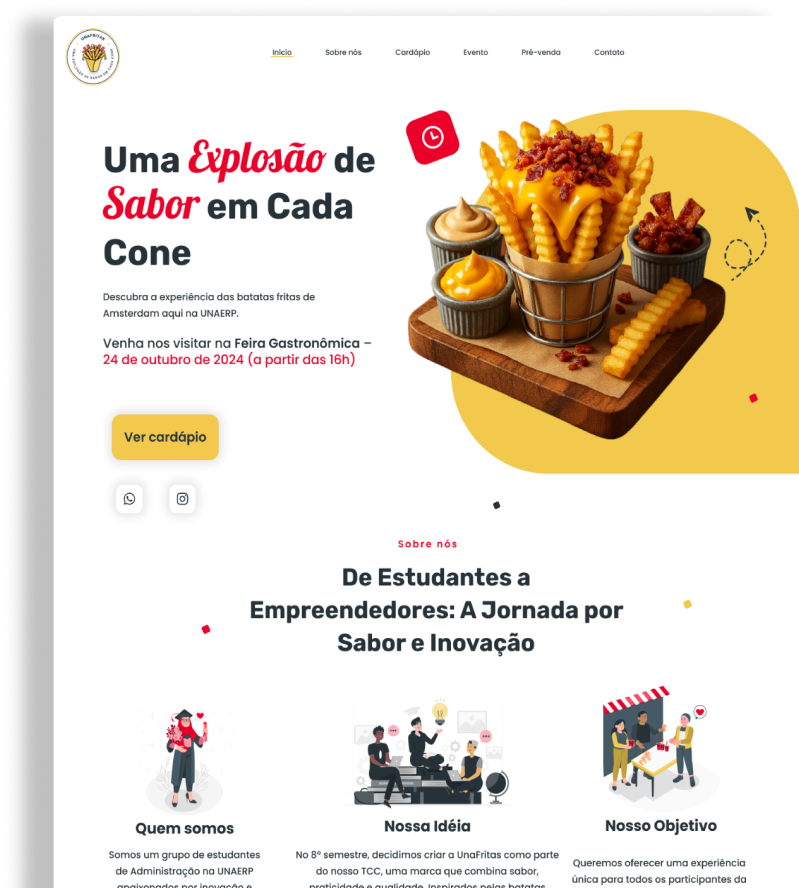
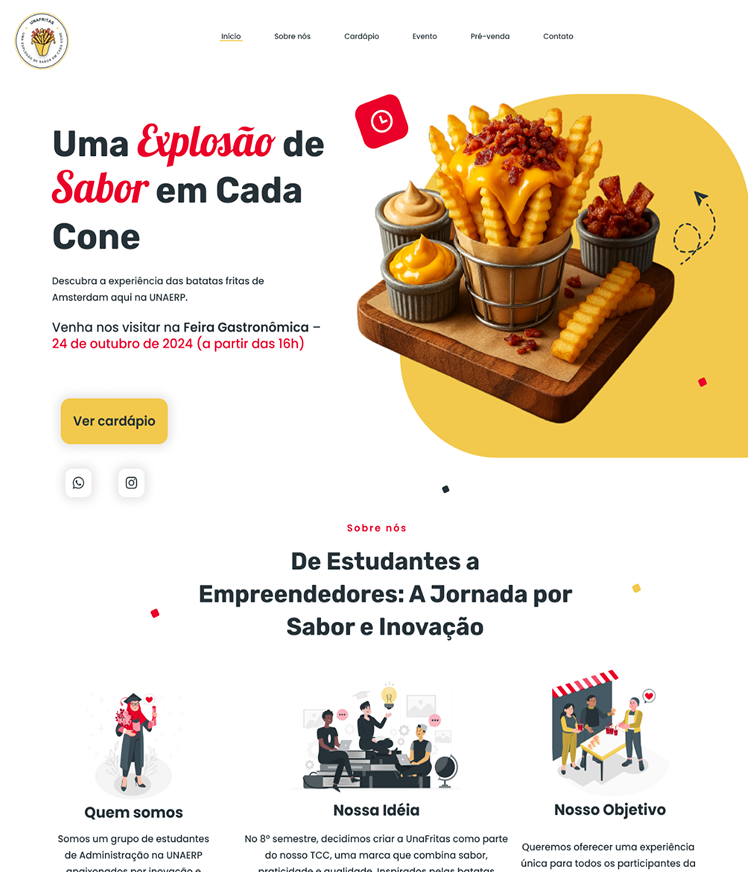
feat: Atualizar estrutura e estilos dos cards de projetos, incluindo novas imagens e ajustes de responsividade

diff --git a/index.html b/index.html
@@ -233,33 +233,80 @@
                     Aqui estão alguns dos meus projetos mais recentes, onde busco unir estética, funcionalidade e acessibilidade para criar experiências digitais que realmente façam a diferença.
                 </p>
             </div>
+
             <div class="container-cards">
-                <img class="detalhe" src="./src/assets/images/Color-unaFritas.png" alt="Imagem de detalhe">
-                <div class="conteudo-card">
-                    <img src="./src/assets/images/logo-unaFritas.png" alt="Imagem da logo do projeto unaFritas">
-                    <h2><span>Landing Page</span> Web UI Design</h2>
-                    <p class="descricao-card">
-                        Landing page desenvolvida como parte do Trabalho de Conclusão de Curso (TCC) dos alunos do 8º semestre de Administração da Universidade de Ribeirão Preto (UNAERP). A proposta apresenta a marca UnaFritas, inspirada nas tradicionais batatas no cone de Amsterdam, e tem como objetivo divulgar a participação do grupo na Feira Gastronômica da UNAERP.
-                    </p>
-                    <div class="buttons-info">
-                        <a href="https://developer.mozilla.org/pt-BR/docs/Web/HTML" target="_blank" rel="noopener" aria-label="Abrir site do HTML">
-                            <i class="fa-brands fa-html5"></i>
-                            <p>HTML5</p>
-                        </a>
-                        <a href="https://developer.mozilla.org/pt-BR/docs/Web/CSS" target="_blank" rel="noopener" aria-label="Abrir site do CSS">
-                            <i class="fa-brands fa-css3-alt"></i>
-                            <p>CSS3</p>
-                        </a>
-                        <a href="https://developer.mozilla.org/pt-BR/docs/Web/JavaScript" target="_blank" rel="noopener" aria-label="Abrir site do JavaScript">
-                            <i class="fa-brands fa-js"></i>
-                            <p>JavaScript</p>
-                        </a>
-                    </div>
+                <div class="card">
+                <div class="image-card">
+                    <img src="./src/assets/images/img-projeto-unaFritas.png" alt="Imagem do site">
                 </div>
-                <img class="imagem-card" src="./src/assets/images/img-projeto-unaFritas.png" alt="Imagem do projeto unaFritas">
+                <div class="languages">
+                    <a href="https://developer.mozilla.org/pt-BR/docs/Web/HTML" target="_blank" rel="noopener" aria-label="Abrir site do HTML">
+                        <i class="fa-brands fa-html5"></i>
+                        <p>HTML5</p>
+                    </a>
+                    <a href="https://developer.mozilla.org/pt-BR/docs/Web/CSS" target="_blank" rel="noopener" aria-label="Abrir site do CSS">
+                        <i class="fa-brands fa-css3-alt"></i>
+                        <p>CSS3</p>
+                    </a>
+                    <a href="https://developer.mozilla.org/pt-BR/docs/Web/JavaScript" target="_blank" rel="noopener" aria-label="Abrir site do JavaScript">
+                        <i class="fa-brands fa-js"></i>
+                        <p>JavaScript</p>
+                    </a>
+                </div>
+                <h2>Landing Page UnaFritas</h2>
+                <p>
+                    Landing page do TCC da UNAERP para divulgar a UnaFritas, marca inspirada nas batatas no cone de Amsterdam, na Feira Gastronômica.
+                </p>
+                
+                <div class="visitar">
+                    <a href="https://una-fritas.vercel.app/" target="_blank" rel="noopener" aria-label="Abrir site do projeto unaFritas">
+                        <i class="fa-solid fa-arrow-up-right-from-square"></i>
+                        <p>Visitar</p>
+                    </a>
+                </div>
             </div>
 
-            <!-- <div id="popup-content">
+            <div class="card">
+                <div class="image-card">
+                    <img src="./src/assets/images/img-projeto-cookingHome.png" alt="Imagem do aplicativo">
+                </div>
+                <div class="languages">
+                    <a href="https://reactnative.dev/" target="_blank" rel="noopener" aria-label="Abrir site do React Native">
+                        <i class="fa-brands fa-react"></i>
+                        <p>React Native</p>
+                    </a>
+                    <a href="https://firebase.google.com/?hl=pt-br" target="_blank" rel="noopener" aria-label="Abrir site do Firebase">
+                        <svg xmlns="http://www.w3.org/2000/svg" width="73" height="91" viewBox="0 0 73 91" fill="none">
+                            <g clip-path="url(#clip0_130_2)">
+                                <path d="M22.5752 87.933C26.3634 89.4568 30.4722 90.3615 34.7873 90.5132C40.6261 90.717 46.1816 89.5089 51.1455 87.2147C45.1923 84.8757 39.8009 81.4554 35.1974 77.2024C32.2171 81.9798 27.805 85.7506 22.5752 87.933Z" fill="#B786FD"/>
+                                <path d="M35.1996 77.2049C24.6952 67.4909 18.3219 53.4295 18.8613 38.0059C18.8787 37.5063 18.906 37.0042 18.9359 36.5046C17.0542 36.0174 15.0905 35.7216 13.0697 35.6495C10.1764 35.5476 7.37501 35.908 4.73026 36.6512C1.92643 41.5629 0.233686 47.1979 0.0224039 53.2356C-0.521958 68.8158 8.90619 82.4273 22.5749 87.9331C27.8047 85.7532 32.2168 81.9849 35.1996 77.2049Z" fill="#C9A5FC"/>
+                                <path d="M35.1998 77.2047C37.6433 73.2973 39.1222 68.7137 39.2962 63.7772C39.7486 50.792 31.019 39.6214 18.9361 36.5044C18.9063 37.004 18.8789 37.5061 18.8615 38.0057C18.3246 53.4268 24.6954 67.4883 35.1998 77.2047Z" fill="#B786FD"/>
+                                <path d="M37.9435 0C31.0632 5.51321 25.6271 12.7813 22.341 21.1555C20.4594 25.9529 19.2762 31.1032 18.9307 36.5045C31.0135 39.6216 39.7432 50.7922 39.2883 63.7798C39.1168 68.7163 37.6304 73.2949 35.1919 77.2074C39.7929 81.4653 45.1868 84.8806 51.14 87.2196C63.0911 81.6965 71.5697 69.81 72.0594 55.7511C72.3775 46.6411 68.8777 38.5229 63.9337 31.6699C58.7113 24.4242 37.9435 0 37.9435 0Z" fill="#6A00FF"/>
+                            </g>
+                            <defs>
+                                <clipPath id="clip0_130_2">
+                                <rect width="73" height="91" fill="white"/>
+                                </clipPath>
+                            </defs>
+                        </svg>
+                        <p>Firebase</p>
+                    </a>
+                </div>
+                <h2>Aplicativo Móvel CookingHome</h2>
+                <p>
+                    Aplicativo em React Native desenvolvido para o meu TCC de Ciência da Computação. Permite visualizar, criar e filtrar receitas através de ingredientes.
+                </p>
+                
+                <div class="visitar">
+                    <a href="https://una-fritas.vercel.app/" target="_blank" rel="noopener" aria-label="Abrir site do projeto unaFritas">
+                        <i class="fa-solid fa-arrow-up-right-from-square"></i>
+                        <p>Visitar</p>
+                    </a>
+                </div>
+            </div>
+            </div>
+
+            <!-- <div class="container-cards">
                 <img class="detalhe" src="./src/assets/images/Color-unaFritas.png" alt="Imagem de detalhe">
                 <div class="conteudo-card">
                     <img src="./src/assets/images/logo-unaFritas.png" alt="Imagem da logo do projeto unaFritas">
@@ -284,6 +331,7 @@
                 </div>
                 <img class="imagem-card" src="./src/assets/images/img-projeto-unaFritas.png" alt="Imagem do projeto unaFritas">
             </div> -->
+
 
         </section>
     </main>

diff --git a/src/styles/projetos.css b/src/styles/projetos.css
@@ -11,8 +11,175 @@
   display: flex;
   flex-direction: column;
   gap: 50px;
+  margin-bottom: 20px;
 }
 
+.container-cards {
+  display: flex;
+  flex-wrap: wrap;
+  justify-content: center;
+  gap: 20px;
+}
+.card {
+  display: flex;
+  flex-direction: column;
+  justify-content: space-between;
+  background-color: #ffffff5b;
+  border-radius: 10px;
+  box-shadow: 0px 4px 10px 2px rgba(0, 0, 0, 0.15);
+  padding: 1.5rem;
+  width: 20rem;
+  gap: 20px;
+
+  & .image-card {
+    display: flex;
+    overflow: hidden;
+    height: 10rem;
+
+    & img {
+      margin-top: 08px;
+      width: 100%;
+      height: 120%; /* altura maior que o container para "sobrar" imagem escondida */
+      object-fit: cover;
+      object-position: top; /* sempre mostrar o topo */
+      transition: transform 0.3s ease;
+    }
+  }
+
+  & h2 {
+    font-size: 1.2rem;
+    font-weight: 700;
+    color: var(--cor-fonte);
+  }
+
+  & p {
+    font-size: 0.7rem;
+    color: var(--cor-fonte);
+  }
+
+  & .languages {
+    display: flex;
+    flex-wrap: wrap;
+    gap: 20px;
+
+    & a {
+      display: flex;
+      align-items: center;
+      gap: 4px;
+      border-radius: 50px;
+      text-decoration: none;
+      color: var(--roxo-principal);
+
+      & i {
+        font-size: 0.8rem;
+      }
+
+      & svg {
+        width: 0.8rem;
+        height: 0.8rem;
+      }
+
+      & p {
+        font-size: 0.5rem;
+        font-weight: 700;
+      }
+    }
+  }
+
+  & .visitar {
+    position: relative;
+    overflow: hidden;
+    z-index: 0;
+    display: flex;
+    justify-content: end;
+
+    & a {
+      display: flex;
+      align-items: center;
+      gap: 5px;
+      border-radius: 50px;
+      text-decoration: none;
+      color: var(--cor-fonte);
+      transition: color 0.3s ease;
+
+      &::before {
+        content: "";
+        position: absolute;
+        top: 0;
+        left: -75%;
+        width: 50%;
+        height: 100%;
+        background: linear-gradient(
+          120deg,
+          rgba(255, 255, 255, 0) 0%,
+          rgba(255, 255, 255, 0.6) 50%,
+          rgba(255, 255, 255, 0) 100%
+        );
+        transform: skewX(-20deg);
+        z-index: 1;
+        opacity: 0;
+        pointer-events: none;
+      }
+
+      & p {
+        font-weight: 700;
+        font-size: 0.8rem;
+        transition: color 0.3s ease;
+      }
+
+      & i {
+        font-size: 0.6rem;
+      }
+
+      &:hover {
+        color: var(--roxo-principal);
+        & p {
+          color: var(--roxo-principal);
+        }
+      }
+    }
+  }
+}
+
+.card:hover .visitar a::before {
+  animation: brilho 3s ease-in-out 0s infinite;
+  opacity: 1;
+}
+
+.card:hover .image-card img {
+  animation: floatImage 2s ease-in-out infinite;
+}
+
+@keyframes floatImage {
+  0%,
+  100% {
+    transform: translateY(0);
+  }
+  50% {
+    transform: translateY(-8px);
+  }
+}
+
+@keyframes brilho {
+  0% {
+    left: -75%;
+  }
+  100% {
+    left: 125%;
+  }
+}
+
+@media screen and (max-width: 420px) {
+  #projetos .container {
+    gap: 20px;
+    width: 100%;
+  }
+  #projetos .description {
+    font-size: 0.85rem;
+  }
+}
+
+/* 
 .container-cards {
   margin-top: 20px;
   background-color: var(--cor-branco);
@@ -41,7 +208,6 @@
 
 .container-cards .imagem-card {
   padding: 2% 1% 0 0;
-  /* width: 50%; */
 }
 
 .container-cards .conteudo-card {
@@ -65,7 +231,7 @@
     font-size: 1.25rem;
     color: var(--cor-fonte);
   }
-}
+} */
 
 /* @media (max-width: 768px) {
   .popup-content {

diff --git a/src/styles/habilidadesStack.css b/src/styles/habilidadesStack.css
@@ -30,6 +30,6 @@
     width: 100%;
   }
   #habilidadesStack .description {
-    font-size: 0.6rem;
+    font-size: 0.85rem;
   }
 }

diff --git a/src/styles/sobreMim.css b/src/styles/sobreMim.css
@@ -31,6 +31,6 @@
     width: 100%;
   }
   #sobreMim .description {
-    font-size: 0.6rem;
+    font-size: 0.85rem;
   }
 }

diff --git a/src/styles/home.css b/src/styles/home.css
@@ -94,6 +94,6 @@
   }
 
   #cta .description {
-    font-size: 0.6rem;
+    font-size: 0.85rem;
   }
 }

diff --git a/src/styles/style.css b/src/styles/style.css
@@ -89,6 +89,7 @@ h3 {
 
   & svg {
     width: 2.5rem;
+    height: 2.5rem;
   }
 
   & p {
